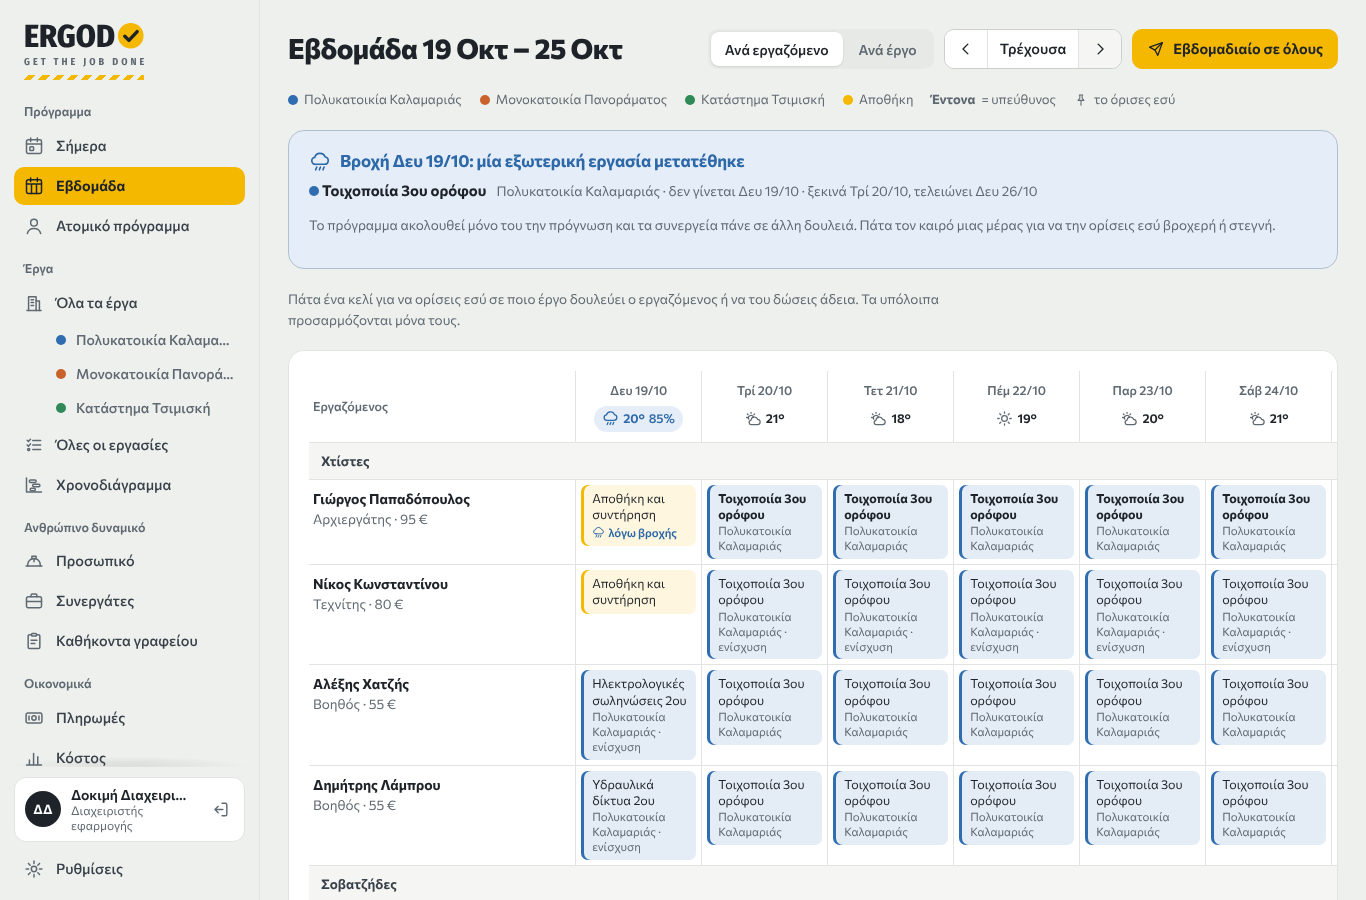
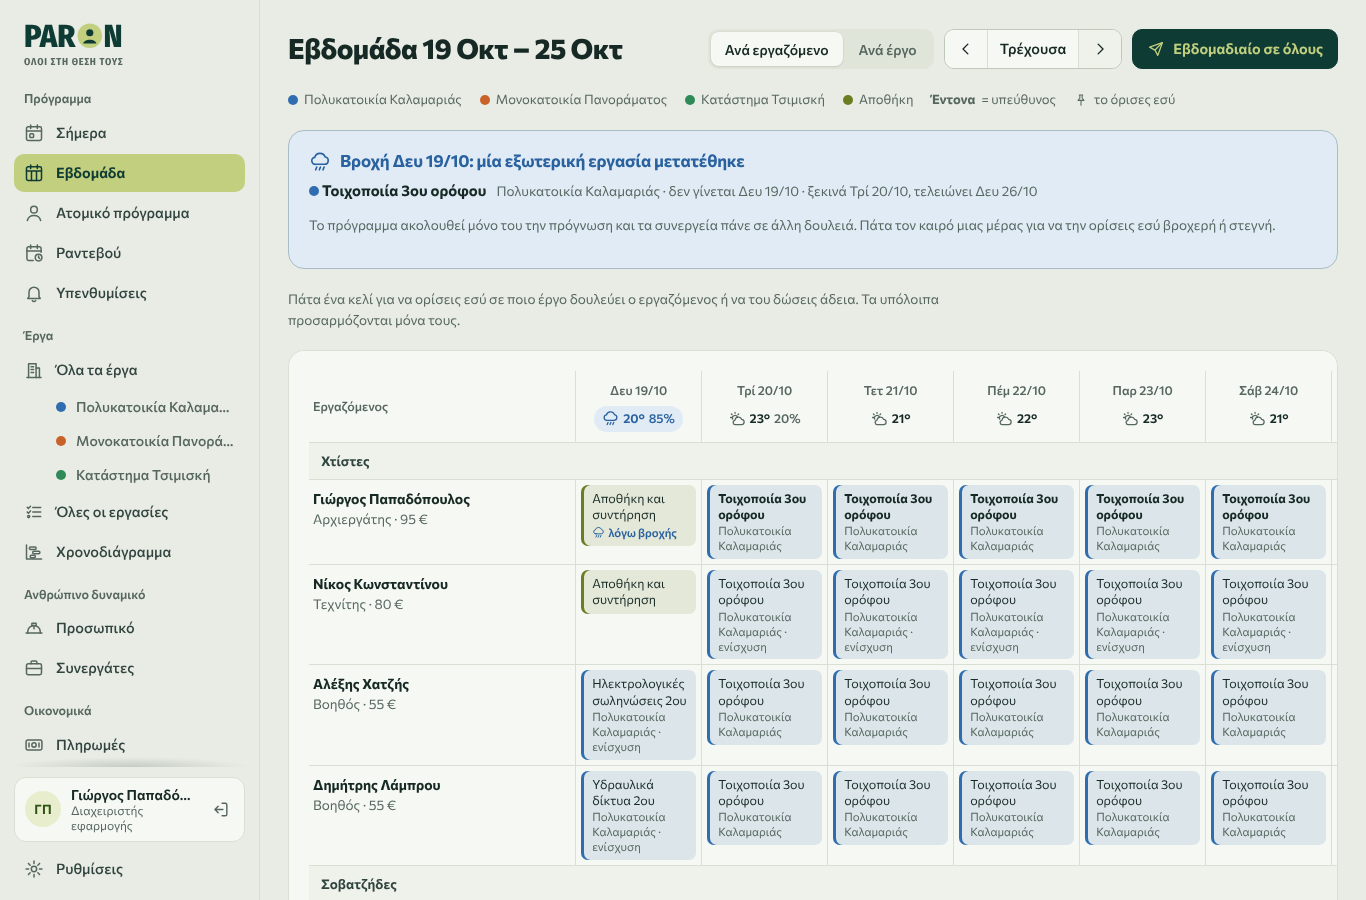
Show the PARON app in the sales site screenshots
The five screenshots now come from the app with its new PARON look,
using the demo data. The weather shot uses a demo forecast with rain on
Monday 19/10, matching the Viber example on the page.

Claude-Session: https://claude.ai/code/session_01CfbqXy6Y4ftsQyMZ1wwAFT

diff --git a/site/index.html b/site/index.html
@@ -602,7 +602,7 @@ footer a:hover{color:var(--on-brand)}
           <li><svg><use href="#i-ok"/></svg><span><b>Τα μεροκάματα μένουν στο γραφείο.</b> Κάθε άτομο βλέπει μόνο ό,τι το αφορά.</span></li>
         </ul>
       </div>
-      <div class="pic duo"><img src="img/ypenthymiseis.png" width="1366" height="900" alt="Υπενθυμίσεις ανά άτομο για το γραφείο και τον ιδιοκτήτη"><img src="img/ergazomenos.png" width="780" height="1688" alt="Το πρόγραμμα ενός ατόμου στο κινητό, με ραντεβού και οδηγίες στον χάρτη"></div>
+      <div class="pic duo"><img src="img/ypenthymiseis.png" width="1366" height="900" alt="Υπενθυμίσεις ανά άτομο για το γραφείο και τον ιδιοκτήτη"><img src="img/ergazomenos.png" width="780" height="1688" alt="Το πρόγραμμα ενός ατόμου στο κινητό, με οδηγίες στον χάρτη"></div>
     </div>
   </div>
 </section>

diff --git a/site/kataskeves.html b/site/kataskeves.html
@@ -558,7 +558,7 @@ footer a:hover{color:var(--on-brand)}
           <li><svg><use href="#i-ok"/></svg><span><b>Χωρίς μεροκάματα άλλων.</b> Ο εργάτης δεν βλέπει τίποτα που δεν τον αφορά.</span></li>
         </ul>
       </div>
-      <div class="pic duo"><img src="img/ypenthymiseis.png" width="1366" height="900" alt="Υπενθυμίσεις ανά άτομο για το γραφείο και τον εργολάβο"><img src="img/ergazomenos.png" width="780" height="1688" alt="Το πρόγραμμα ενός εργάτη στο κινητό, με ραντεβού και οδηγίες στον χάρτη"></div>
+      <div class="pic duo"><img src="img/ypenthymiseis.png" width="1366" height="900" alt="Υπενθυμίσεις ανά άτομο για το γραφείο και τον εργολάβο"><img src="img/ergazomenos.png" width="780" height="1688" alt="Το πρόγραμμα ενός εργάτη στο κινητό, με οδηγίες στον χάρτη"></div>
     </div>
   </div>
 </section>

diff --git a/site/src/pages/kataskeves.html b/site/src/pages/kataskeves.html
@@ -133,7 +133,7 @@ path: kataskeves.html
           <li><svg><use href="#i-ok"/></svg><span><b>Χωρίς μεροκάματα άλλων.</b> Ο εργάτης δεν βλέπει τίποτα που δεν τον αφορά.</span></li>
         </ul>
       </div>
-      <div class="pic duo"><img src="img/ypenthymiseis.png" width="1366" height="900" alt="Υπενθυμίσεις ανά άτομο για το γραφείο και τον εργολάβο"><img src="img/ergazomenos.png" width="780" height="1688" alt="Το πρόγραμμα ενός εργάτη στο κινητό, με ραντεβού και οδηγίες στον χάρτη"></div>
+      <div class="pic duo"><img src="img/ypenthymiseis.png" width="1366" height="900" alt="Υπενθυμίσεις ανά άτομο για το γραφείο και τον εργολάβο"><img src="img/ergazomenos.png" width="780" height="1688" alt="Το πρόγραμμα ενός εργάτη στο κινητό, με οδηγίες στον χάρτη"></div>
     </div>
   </div>
 </section>

diff --git a/site/src/pages/index.html b/site/src/pages/index.html
@@ -177,7 +177,7 @@ path:
           <li><svg><use href="#i-ok"/></svg><span><b>Τα μεροκάματα μένουν στο γραφείο.</b> Κάθε άτομο βλέπει μόνο ό,τι το αφορά.</span></li>
         </ul>
       </div>
-      <div class="pic duo"><img src="img/ypenthymiseis.png" width="1366" height="900" alt="Υπενθυμίσεις ανά άτομο για το γραφείο και τον ιδιοκτήτη"><img src="img/ergazomenos.png" width="780" height="1688" alt="Το πρόγραμμα ενός ατόμου στο κινητό, με ραντεβού και οδηγίες στον χάρτη"></div>
+      <div class="pic duo"><img src="img/ypenthymiseis.png" width="1366" height="900" alt="Υπενθυμίσεις ανά άτομο για το γραφείο και τον ιδιοκτήτη"><img src="img/ergazomenos.png" width="780" height="1688" alt="Το πρόγραμμα ενός ατόμου στο κινητό, με οδηγίες στον χάρτη"></div>
     </div>
   </div>
 </section>

diff --git a/site/README.md b/site/README.md
@@ -6,7 +6,7 @@
 ## Σελίδες
 - `index.html`: η αρχική, για κάθε εταιρεία που στέλνει ομάδες σε άλλο σημείο κάθε μέρα (κατασκευές, καθαρισμοί, κήποι, τεχνικά συνεργεία, φωτοβολταϊκά). Η εστίαση και τα καταστήματα φαίνονται ως «ΣΥΝΤΟΜΑ», γιατί θέλουν βάρδιες με ώρες. Απόφαση του Χρήστου, 16/10/2026.
 - `kataskeves.html`: η σελίδα για εργολάβους και κατασκευαστικές, με τις λέξεις του εργοταξίου.
-- `img/`: στιγμιότυπα από την εφαρμογή. Δείχνουν ακόμη την παλιά εμφάνιση ERGODO και θα ξαναβγούν όταν η εφαρμογή πάρει το PARON.
+- `img/`: στιγμιότυπα από την εφαρμογή PARON με τα δεδομένα επίδειξης (16/10/2026). Η εικόνα του καιρού δείχνει πρόγνωση επίδειξης με βροχή τη Δευτέρα 19/10, ίδια με το μήνυμα Viber του site.
 
 Τα `index.html` και `kataskeves.html` είναι έτοιμα αρχεία που φτιάχνει το `build.py`. Δεν τα αλλάζεις με το χέρι.
 
@@ -61,7 +61,6 @@ python3 build.py --preview DIR    # και αντίγραφο για την πρ
 
 ## Τι μένει πριν ανέβει
 - **Σήματα «ΣΥΝΤΟΜΑ»**: φεύγουν από τα πακέτα και από τον πίνακα σύγκρισης όσο το νήμα της εφαρμογής ολοκληρώνει κάθε λειτουργία.
-- **Στιγμιότυπα**: να ξαναβγούν από την εφαρμογή όταν πάρει το όνομα και τα χρώματα PARON.
 - **Domain**: το `paron.gr` πρέπει να ελεγχθεί και να αγοραστεί (papaki.gr).
 - **Πρόγραμμα έναρξης**: οι πρώτες 20 εταιρείες κλειδώνουν την τιμή για 2 χρόνια και παίρνουν δωρεάν στήσιμο.
 - **Αυτόματη πρωινή αποστολή στο Viber/WhatsApp**: δεν είναι στα πακέτα, γιατί το Viber Business κοστίζει περίπου 175 €/μήνα. Με WhatsApp (~0,02 € το μήνυμα) θα μπορούσε να γίνει πρόσθετο αργότερα.
